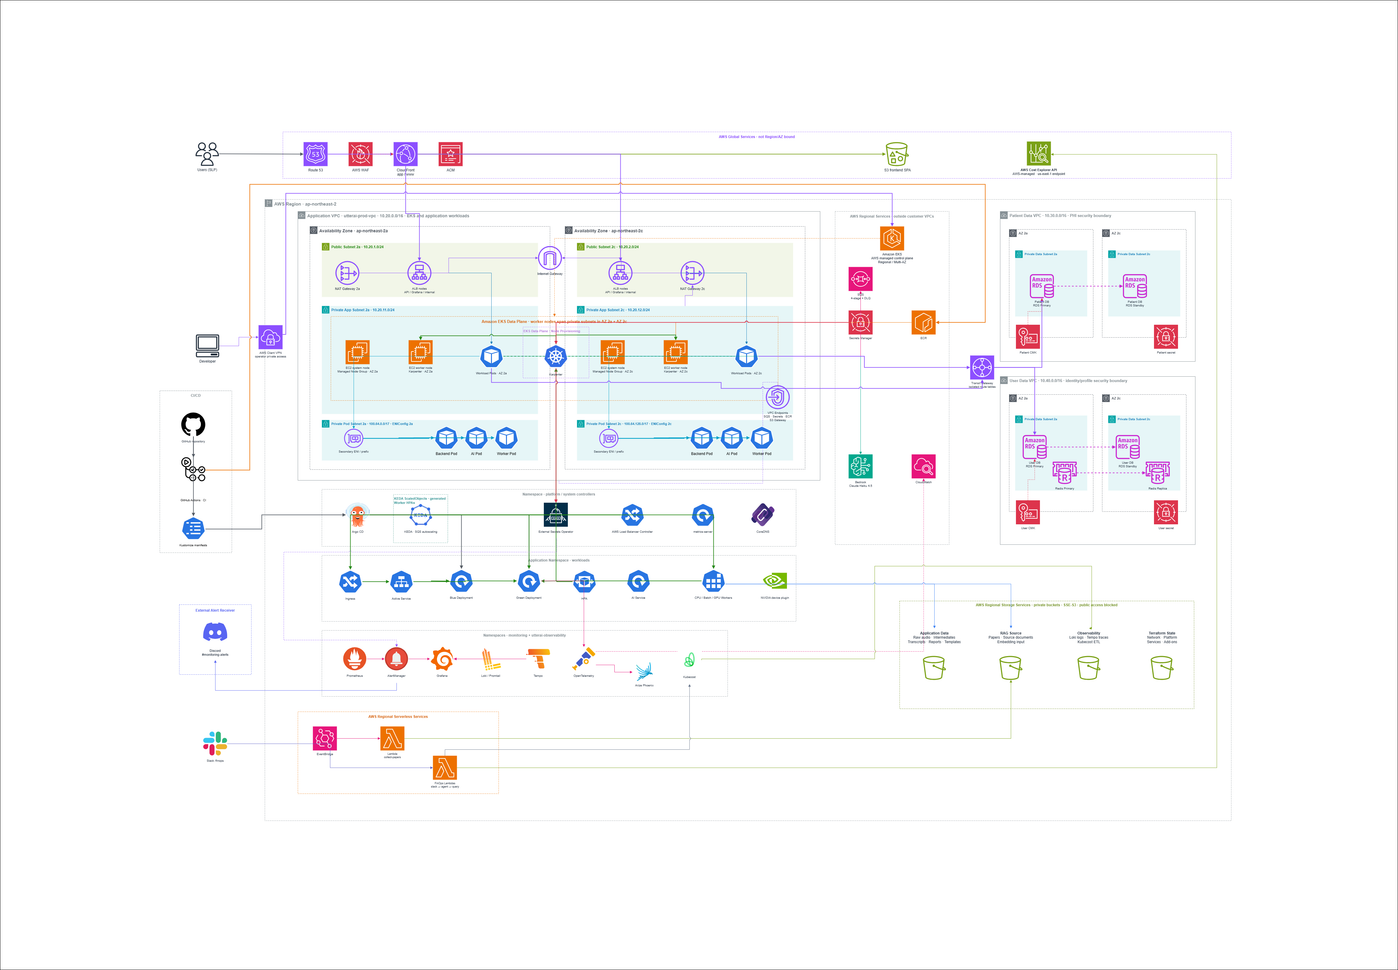
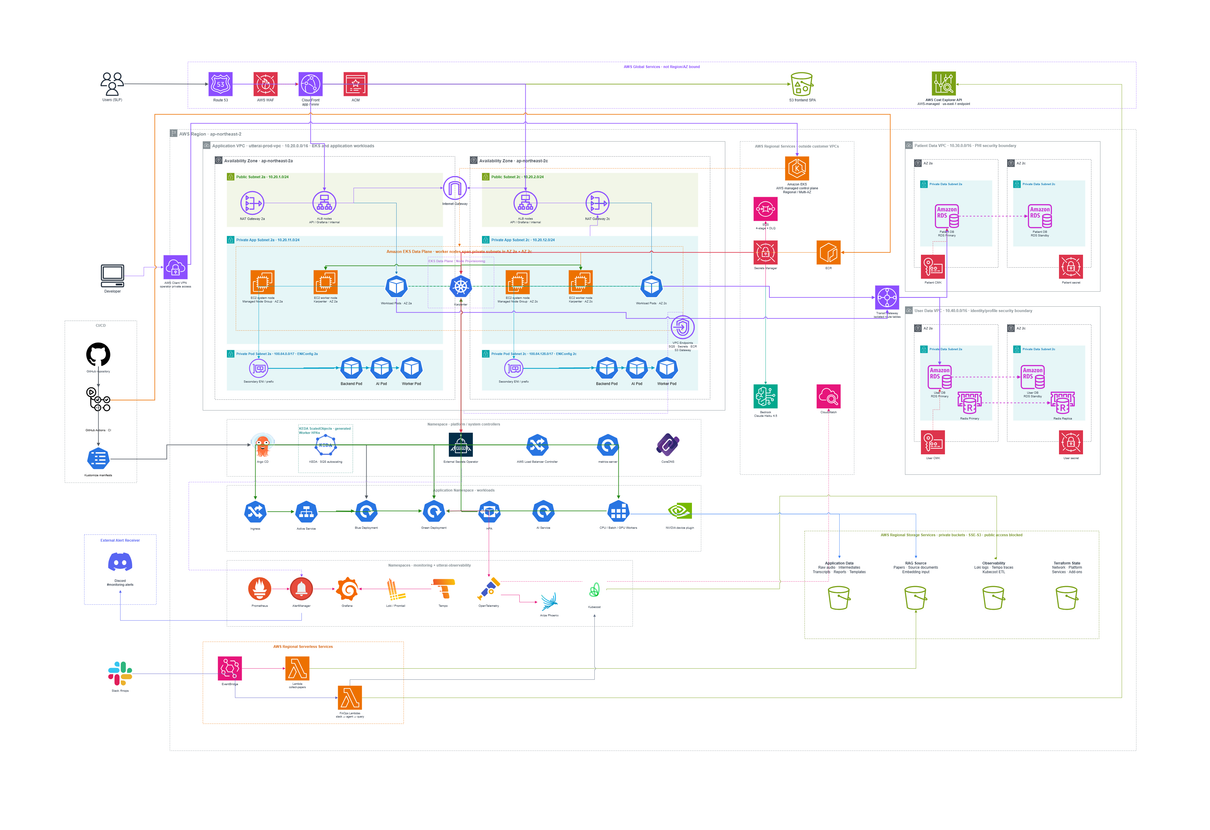
fix: clean up architecture image framing

diff --git a/src/components/InfraPortfolio.tsx b/src/components/InfraPortfolio.tsx
@@ -69,13 +69,13 @@ function ArchitectureFigures() {
       <figure>
         <figcaption>전체 아키텍처 · AWS / EKS / 데이터·관측성 계층</figcaption>
         <div className="architecture-image overall-architecture">
-          <Image src="/images/utterai-architecture.png" alt="UtterAI 전체 AWS 아키텍처" width={1951} height={1391} />
+          <Image src="/images/utterai-architecture.png" alt="UtterAI 전체 AWS 아키텍처" width={1210} height={830} />
         </div>
       </figure>
       <figure>
         <figcaption>EKS Cluster · VPC, subnet, node provisioning, platform controllers</figcaption>
         <div className="architecture-image">
-          <Image src="/images/eks-cluster-architecture.png" alt="UtterAI EKS 클러스터 아키텍처" width={1660} height={780} />
+          <Image src="/images/eks-cluster-architecture.png" alt="UtterAI EKS 클러스터 아키텍처" width={2100} height={1020} />
         </div>
       </figure>
     </div>